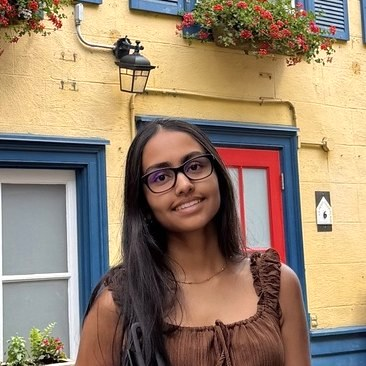
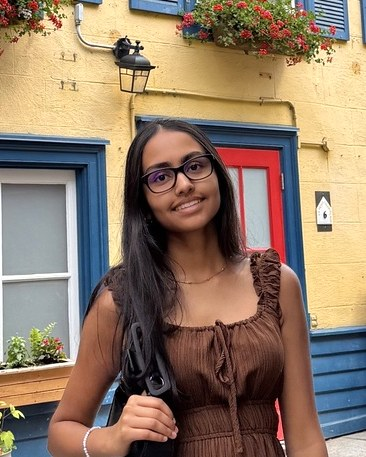
Try portrait (4:5) photo shape instead of square/circle

diff --git a/assets/css/styles.css b/assets/css/styles.css
@@ -976,7 +976,7 @@ h3 {
 .officer-photo {
   position: relative;
   width: 150px;
-  height: 150px;
+  height: 188px;
   border-radius: var(--radius);
   margin: 0 auto 18px;
   background: var(--navy);
